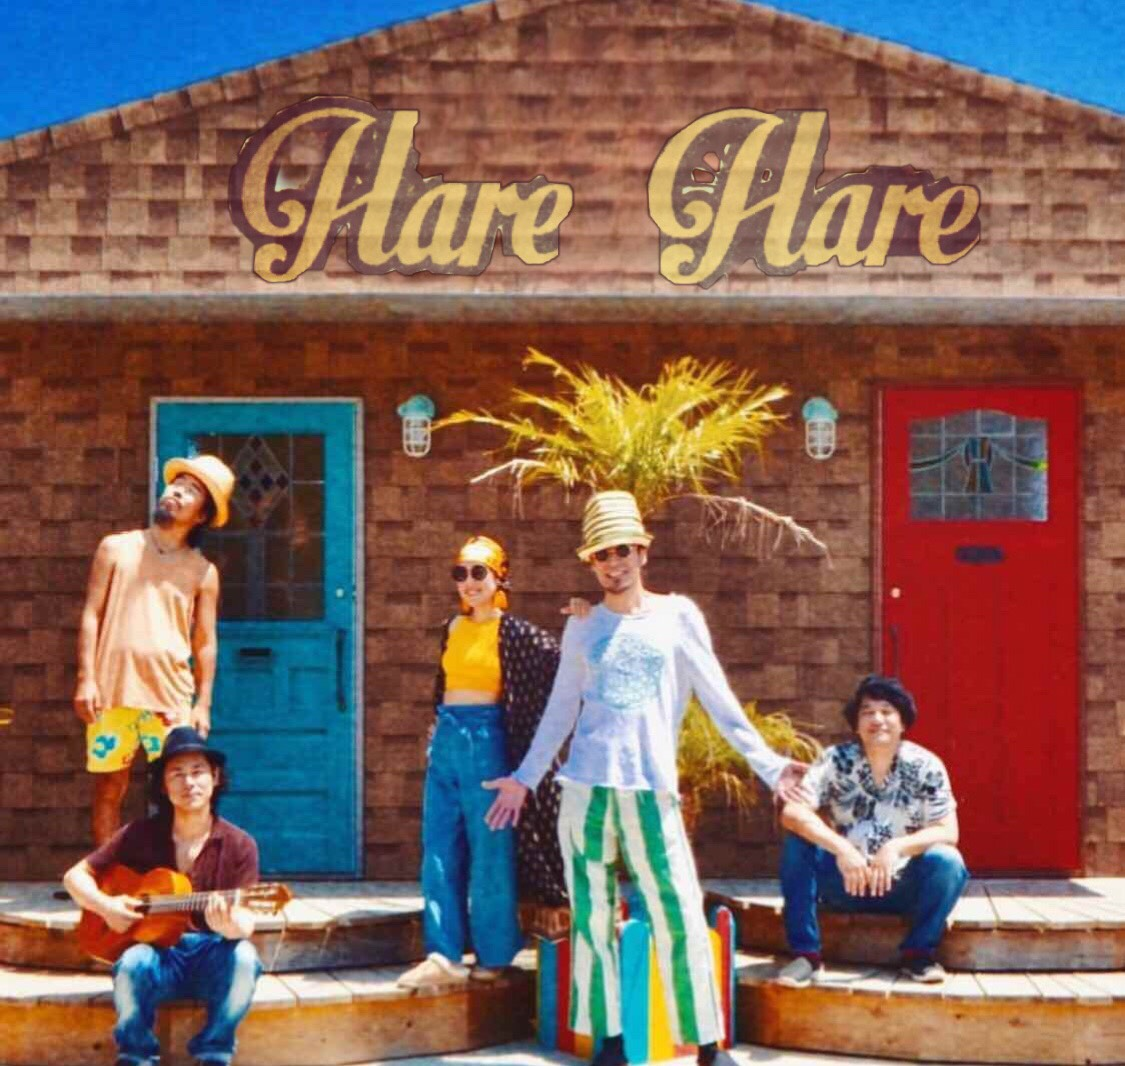
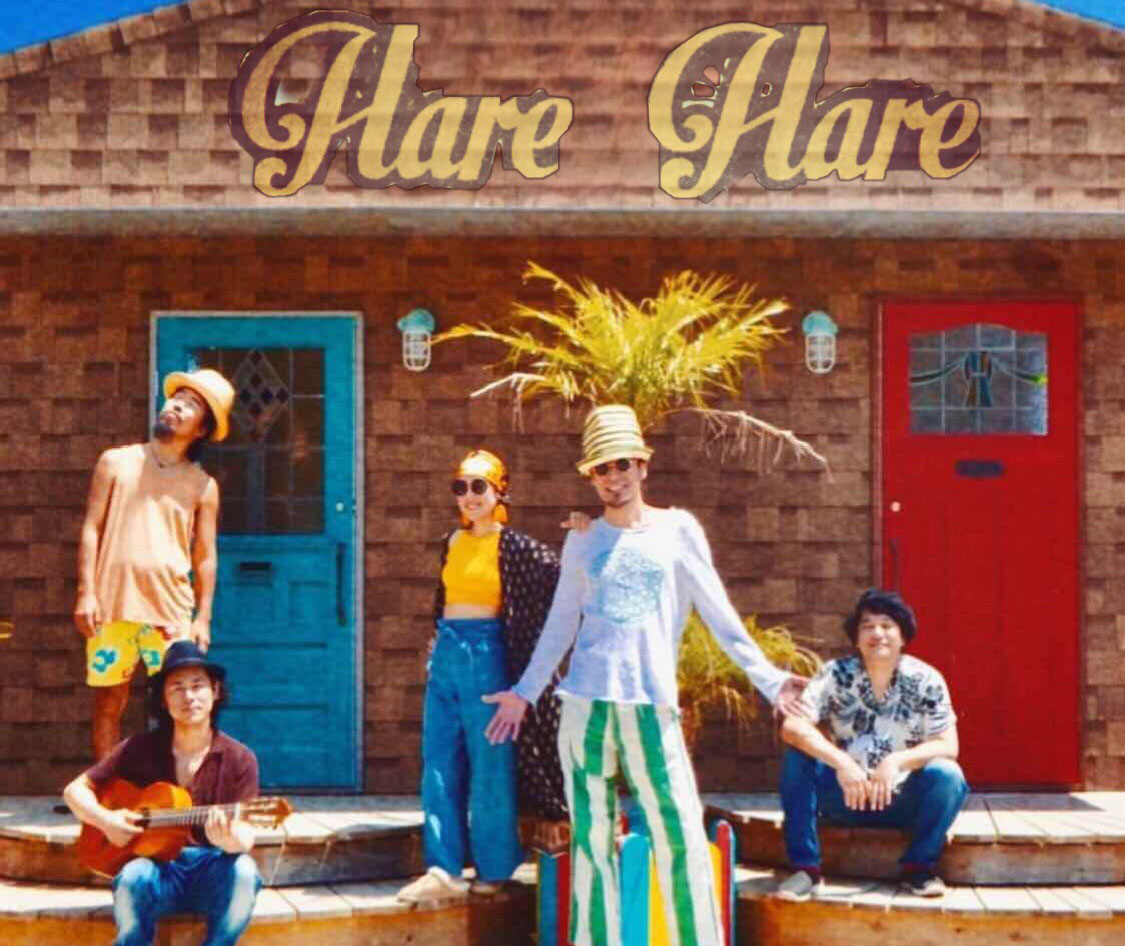
rellax.js

diff --git a/harehare.html b/harehare.html
@@ -27,45 +27,101 @@
   <link rel="stylesheet" href="https://cdnjs.cloudflare.com/ajax/libs/Swiper/4.5.1/css/swiper.css">
 </head>
 <body>
-  <div id="hare-wrap">
+  <div class="container">
+    <div class="overlay">
 <!-- ---------- ヘッダー ---------- -->
-    <header class="header">
-      <p><img src="img/harehare1.jpg" alt="harehareメイントップ"></p>
-    </header>
-    <main>
-      <section>
-        <div class="hareabout">
-          <div class="haremember">
-            <h2 class="hareabout__theme">Member</h2>
-              <ul>
-                <li class="haremember__list">Dr.Tosh / 永井利充 (vo.b)</li>
-                <li class="haremember__list">Peace-K (vo.dr)</li>
-                <li class="haremember__list">Crystal myuu (vo.syn)</li>
-                <li class="haremember__list">Junon (g.cho)</li>
-                <li class="haremember__list">mako-tone (key.cho)</li>
-              </ul>
+      <header class="header rellax" data-rellax-speed="-2">
+        <figure><img src="img/harehare1.jpg" alt="harehareメイントップ"></figure>
+      </header>
+      <main>
+        <section>
+          <div class="hareabout rellax" data-rellax-speed="2">
+            <div class="haremember">
+              <h2 class="hareabout__theme">Member</h2>
+                <ul>
+                  <li class="haremember__list">Dr.Tosh / 永井利充 (vo.b)</li>
+                  <li class="haremember__list">Peace-K (vo.dr)</li>
+                  <li class="haremember__list">Crystal myuu (vo.syn)</li>
+                  <li class="haremember__list">Junon (g.cho)</li>
+                  <li class="haremember__list">mako-tone (key.cho)</li>
+                </ul>
+            </div>
+            <div class="haredescription">
+              <h2 class="hareabout__theme">Description</h2>
+              <p class="haredescription__text">Dr.Tosh/永井利充(ex.ボガンボス)のニューヴィジョン。《Hare Hare》のサウンドは楽園音楽だ。</p>
+              <p class="haredescription__text">Dr.Tosh & Peace-Kのリズムセクションのラヴグルーヴにメンバーのハッピーオーラを満載してお届けする祝祭の宴。メンバーが織り成すその原色音世界は祈りや儀式に近いのかもしれない。</p>
+              <p class="haredescription__text">《Hare Hare》 はcelebration『 祝福 』という新しいジャンルを世界に提示する。</p>
+            </div>
           </div>
-          <div class="haredescription">
-            <h2 class="hareabout__theme">Description</h2>
-            <p class="haredescription__text">Dr.Tosh/永井利充(ex.ボガンボス)のニューヴィジョン。《Hare Hare》のサウンドは楽園音楽だ。</p>
-            <p class="haredescription__text">Dr.Tosh & Peace-Kのリズムセクションのラヴグルーヴにメンバーのハッピーオーラを満載してお届けする祝祭の宴。メンバーが織り成すその原色音世界は祈りや儀式に近いのかもしれない。</p>
-            <p class="haredescription__text">《Hare Hare》 はcelebration『 祝福 』という新しいジャンルを世界に提示する。</p>
+        </section>
+      </main>
+        <section>
+          <div class="harelive rellax" data-rellax-speed="-2">
+            <figure><img src="img/harehare2.jpg" alt="harehareセッション"></figure>
           </div>
-        </div>
-      </section>
-    </main>
-      <section>
-        <div class="harelive">
-          <p><img src="img/harehare2.jpg" alt="harehareセッション"></p>
-        </div>
-      </section>
-      <section>
-        <div class="haremusic">
-
-        </div>
-      </section>
+        </section>
+        <section>
+          <div class="haremusic rellax" data-rellax-speed="4">
+            <p>〜生まれたての世界〜</p>
+            <div class="haremusic__lyrics">
+              <p>待ちわびていた物語が 今目の前で回り出した
+                  もう止まらない
+                  愛の奇跡
+                  僕らは今ここに
+                  生まれてきた
+                  
+                  すべてを脱ぎ捨てて 今歌おう
+                  愛の奇跡を奏でよう
+                  太陽と月がひとつになって
+                  紐解かれてく
+                  愛そのもの</p>
+            </div>
+          </div>
+        </section>
+        <section>
+          <div class="harephoto rellax" data-rellax-speed="-1">
+            <figure><img src="img/harehare3.jpg" alt="harehare"></figure>
+          </div>
+        </section>
+        <section>
+          <div class="haremusic rellax" data-rellax-speed="6">
+            <p>〜ライフアート〜</p>
+            <div class="haremusic__lyrics">
+              <p>愛の瞬間を
+                コラージュしよう
+                この宇宙(そら)いっぱいに
+                ペタペタ貼り付けていこう
+                はがれ落ちてくしゃくしゃに
+                なったってイイ
+                宇宙(そら)そのものになるまで
+                ずっと飾っておこう
+                そしたら
+                この世界はきっと
+                愛に溢れるさ
+                僕らにできることを
+                やっと見つけた気がする
+                愛するキミがいてくれるから</p>
+            </div>
+          </div>
+        </section>
+        <section>
+          <div class="harephoto">
+            <figure><img src="img/harehare4.jpg" alt="harehareイメージ"></figure>
+          </div>
+        </section>
+    </div>
   </div>
   <script src="https://code.jquery.com/jquery-3.4.1.min.js"></script>
+  <script src="https://cdnjs.cloudflare.com/ajax/libs/rellax/1.9.1/rellax.min.js"></script>
   <script type="text/javascript" src="js/harehare.js"></script>
+  <script>
+    var rellax = new Rellax('.rellax', {
+  center: false,
+  wrapper: null,
+  round: true,
+  vertical: true,
+  horizontal: false
+});
+  </script>
 </body>
 </html>

diff --git a/css/harestyle.css b/css/harestyle.css
@@ -16,6 +16,11 @@ body {
   }
 }
 
+body {
+  overflow: visible !important;
+  background-image: url(../../img/Pepsized_Blur_01.jpg);
+}
+
 .header {
   width: 100vw;
   height: 100%;
@@ -86,8 +91,8 @@ body {
 
 @media (max-width: 768px) {
   .haredescription__text {
-    font-size: 14px;
-    font-size: 0.875rem;
+    font-size: 16px;
+    font-size: 1rem;
   }
 }
 
@@ -102,10 +107,36 @@ body {
 
 .haremusic {
   padding: 32px;
+  margin: 0 auto;
+}
+
+@media (min-width: 769px) {
+  .haremusic {
+    width: 500px;
+    font-size: 16px;
+    font-size: 1rem;
+  }
 }
 
 @media (max-width: 768px) {
   .haremusic {
-    padding: 24px 16px;
+    width: 300px;
+    padding: 24px;
   }
+}
+
+.haremusic__lyrics {
+  line-height: 1.5;
+  white-space: pre-line;
+  word-wrap: break-word;
+}
+
+.harephoto {
+  width: 100vw;
+  height: 100%;
+}
+
+.harephoto img {
+  width: 100%;
+  height: 100%;
 }

diff --git a/css/harehare/_haremusic.scss b/css/harehare/_haremusic.scss
@@ -1,6 +1,19 @@
 .haremusic {
   padding: 32px;
-  @include sp {
-    padding: 24px 16px;
+  margin:  0 auto;
+  @include pc {
+    width: 500px;
+    @include fontsize(16);
   }
+  @include sp {
+    width: 300px;
+    padding: 24px;
+  }
+
+}
+
+.haremusic__lyrics {
+  line-height: 1.5;
+  white-space: pre-line;
+  word-wrap: break-word;
 }

diff --git a/css/harestyle.scss b/css/harestyle.scss
@@ -7,7 +7,9 @@
 @import "./mixin/center";
 
 // ==================main==================
+@import "./harehare/harebg";
 @import "./harehare/hareheader";
 @import "./harehare/hareabout";
 @import "./harehare/harelive";
 @import "./harehare/haremusic";
+@import "./harehare/harephoto";

diff --git a/css/harehare/_hareabout.scss b/css/harehare/_hareabout.scss
@@ -42,6 +42,6 @@
   line-height: 1.5;
   letter-spacing: 1;
   @include sp {
-    @include fontsize(14);
+    @include fontsize(16);
   }
 }

diff --git a/css/harehare/_harebg.scss b/css/harehare/_harebg.scss
@@ -1,0 +1,4 @@
+body {
+  overflow: visible !important;
+  background-image: url(../../img/Pepsized_Blur_01.jpg);
+}

diff --git a/css/harehare/_harephoto.scss b/css/harehare/_harephoto.scss
@@ -1,0 +1,8 @@
+.harephoto {
+  width: 100vw;
+  height: 100%;
+  img {
+    width: 100%;
+    height: 100%;
+  }
+}
